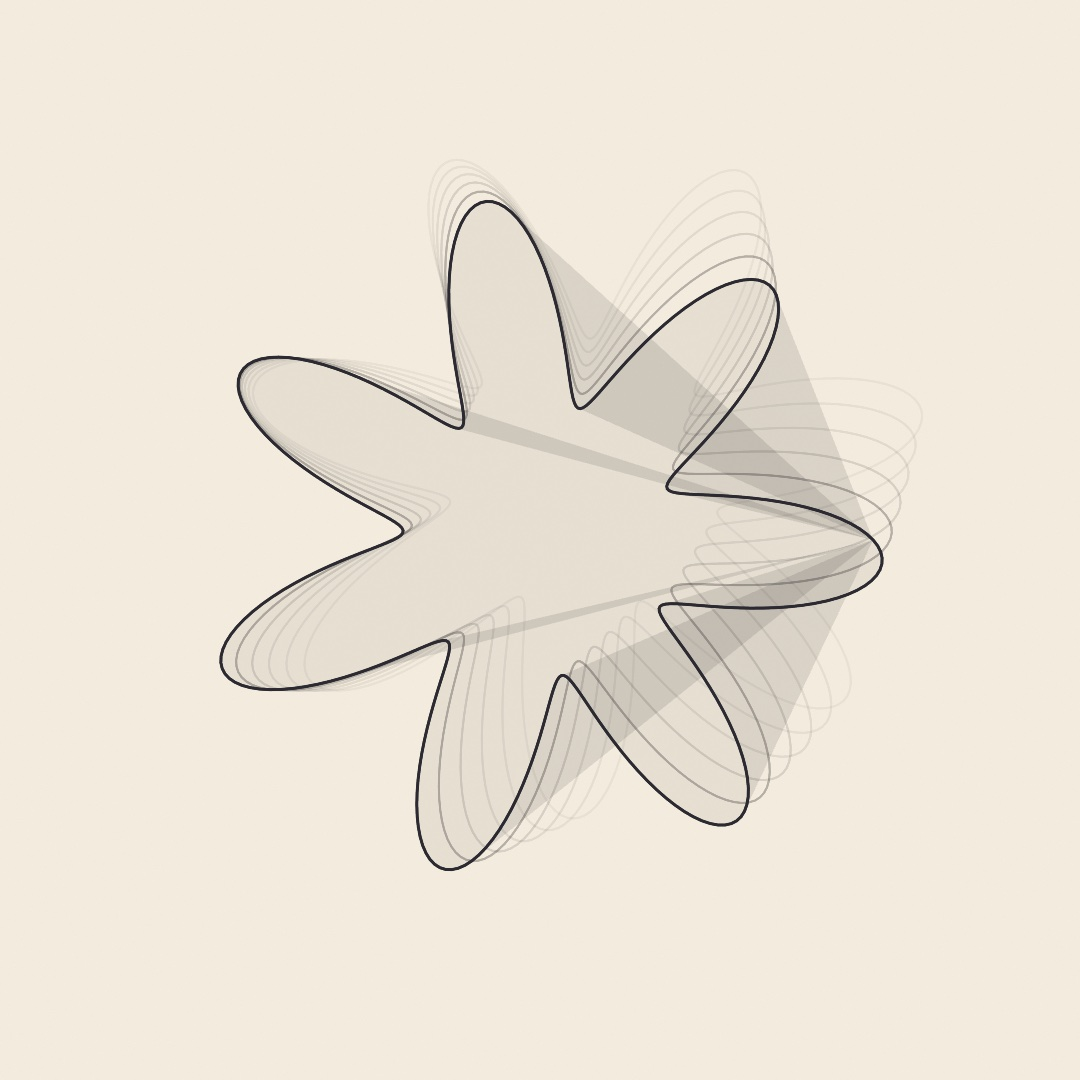
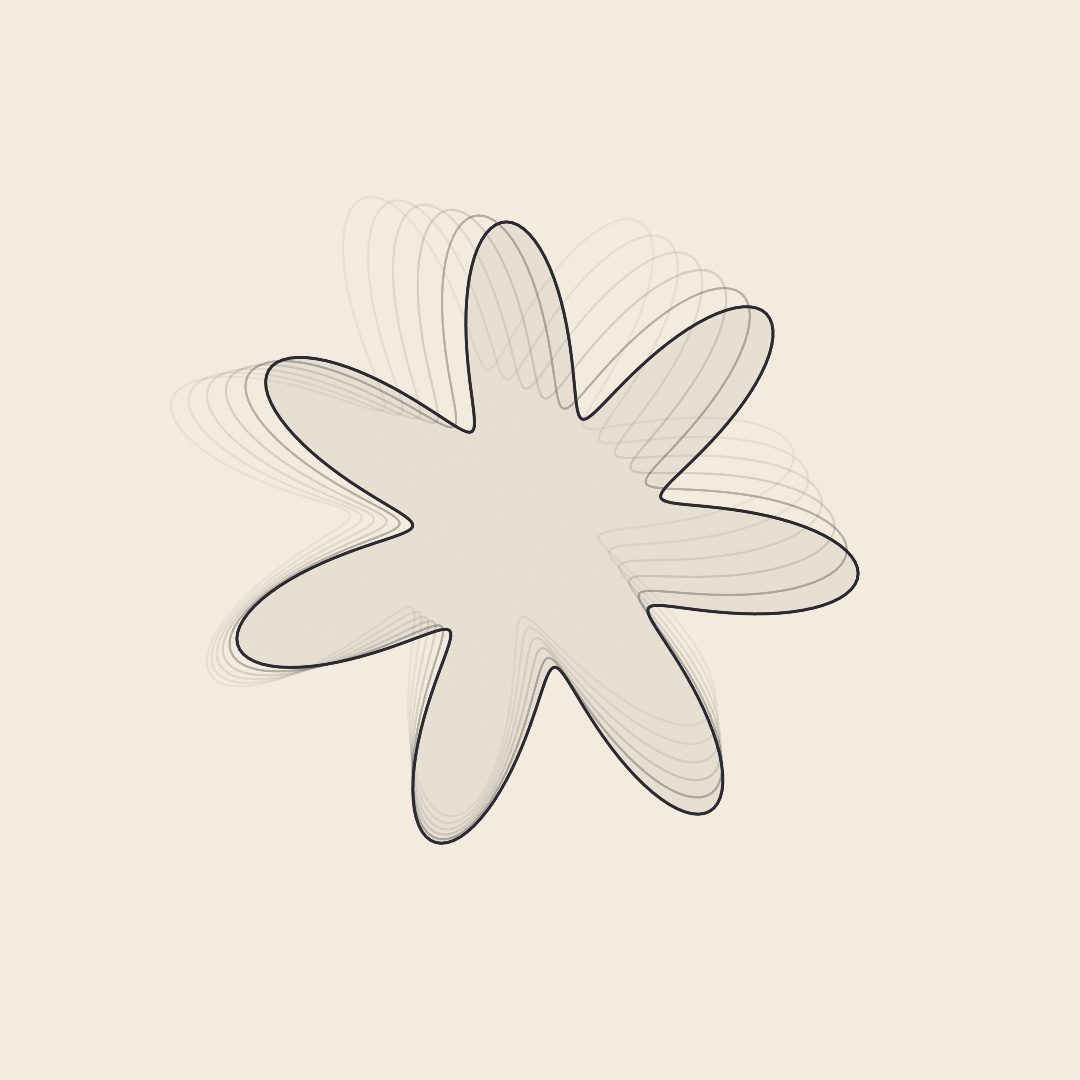
Chapter 35's weather rose and pushed-feed figures re-rendered from the chapter's reshape and review pass. The rose is now filled as a Shape, and the old image showed why that mattered: filled as a triangle fan from one point, the concave outline had grey wedges between its petals, and those are gone
Claude-Session: https://claude.ai/code/session_01WqLtBAH3GLezrn1E1FY2W7

Changed region(s): [[0.1833, 0.1528, 0.825, 0.825]]

diff --git a/Guide/35-ControlsAndSignals.md b/Guide/35-ControlsAndSignals.md
@@ -4,7 +4,7 @@
 
 # 35. Controls and signals
 
-<img src="Images/35-ControlsAndSignals/WeatherRose.jpg" alt="A seven-petaled rose outlined in dark ink on cream, with fainter, slightly turned copies of itself trailing off to the right as though blown" width="560">
+<img src="Images/35-ControlsAndSignals/WeatherRose.jpg" alt="A seven-petaled rose outlined in dark ink on cream, with fainter, slightly turned copies of itself fanning out behind it as though blown" width="560">
 
 This chapter connects a sketch to controls and signals outside the inspector. They include MIDI knobs, a phone fader, a shared beat, a game controller, the weather, and a knock from the trackpad. Knobs and faders bind straight to your `@Param` values, and everything else reads in `draw()` as a level or a moment. The steps build the weather rose above, a rose that all of these move at once. After it come more hands (a table, sensors on a wire or over Bluetooth), published and smoothed parameters, and data from the web.
 
